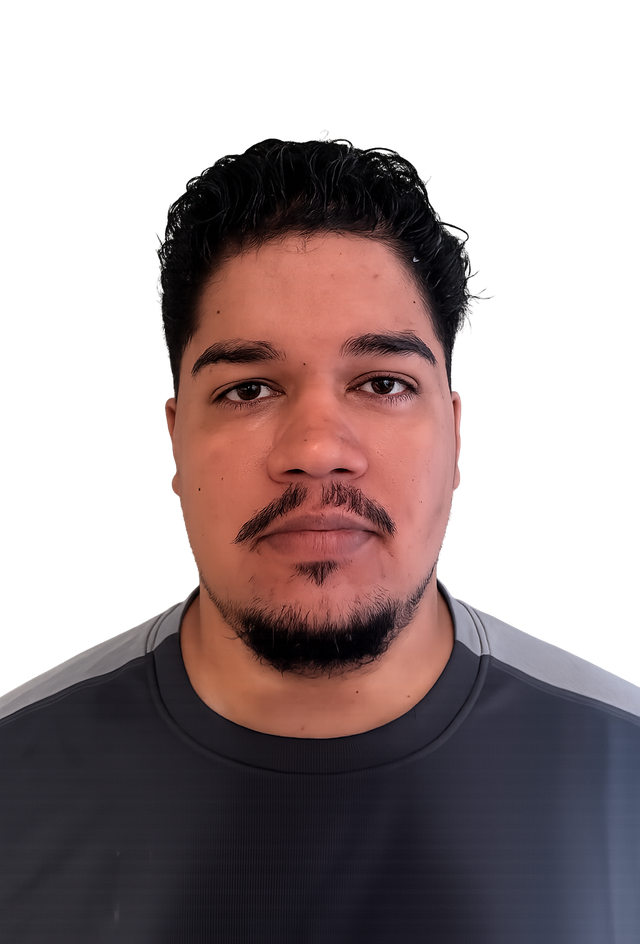
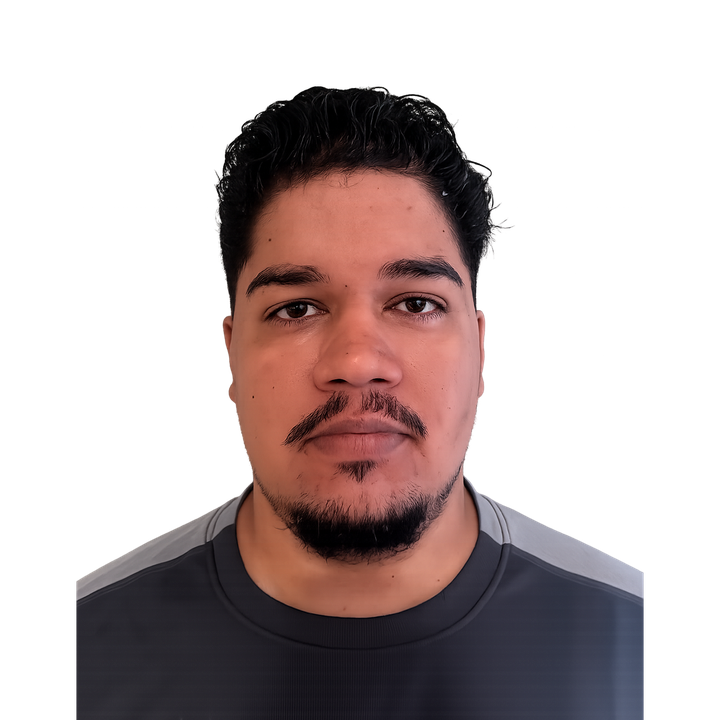
fix: foto circular e abertura que cabe na dobra em qualquer tela
Foto
- Volta ao padrao circular. O recorte retangular sangrando na base do bloco
  travava a altura do bloco na altura da imagem; o circulo escala com a tela e
  ainda entra por cima da tipografia, que era a graca do recorte.
- public/hugo-foto.png passa a ser QUADRADA (720x720), montada por script a
  partir do PNG sem fundo. Recortar no CSS nao servia: o getbbox() da alpha
  pegava um halo quase transparente de ~235px acima da cabeca, entao o `cover`
  ancorava errado e o rosto saia colado no topo do circulo. O script acha o
  topo real do sujeito (alpha > 60) e monta a tela com 12% de ar.

Abertura em uma tela
- Tudo que empurra altura vira min(Xvw, Yvh) dentro de um clamp, e a secao usa
  100dvh (nao vh: a barra de endereco do celular come ~60px e cortava a faixa).
  Medido em 13 viewports, de 1920x1080 a 360x740: todas cabem sem scroll.

Tres bugs que apareceram na medicao
- @keyframes ORFAO no CSS global: sobrou um `to { transform: rotate(360deg) }`
  e uma chave solta de um hl-spin removido. A chave matava o @media inteiro —
  por isso NENHUMA regra responsiva estava valendo, e a grade de tres colunas
  do hero continuava lado a lado no celular, com a coluna de texto quebrando
  uma palavra por linha.
- O nome vazava do bloco lima em toda largura de celular (43px de corte em
  320px, 58px em 360px): a medida em vw nao descontava a calha do rail nem os
  paddings. Coeficiente recalculado para a largura que sobra de verdade.
[…]

Changed region(s): [[0.0, 0.1222, 1.0, 1.0], [0.6562, 0.9472, 0.7188, 1.0], [0.625, 0.8556, 0.6562, 0.8861]]

diff --git a/src/components/Hero.tsx b/src/components/Hero.tsx
@@ -1,18 +1,34 @@
 import { C, F, R } from "../theme";
 
 /**
- * Abertura em bloco.
+ * Abertura em bloco — e em UMA tela.
  *
- * A referência é de cartaz: uma superfície inteira no acento, o nome ocupando a
- * largura toda em grotesca preta, e a foto entrando POR CIMA da tipografia. O
- * texto de apoio vive nas margens do bloco, em corpo pequeno — o contraste é
- * entre 8rem e 0,75rem, não entre duas fontes.
+ * A referência continua sendo de cartaz: superfície inteira no acento, o nome
+ * ocupando a largura toda em grotesca preta, texto de apoio nas margens em
+ * corpo pequeno. O contraste é entre 8rem e 0,75rem, não entre duas fontes.
  *
- * A faixa abaixo do bloco responde às DUAS perguntas que o visitante faz nos
- * primeiros segundos, uma em cada painel: "quem é essa pessoa?" (esquerda, a
- * credencial) e "o que tem aqui dentro?" (direita, o inventário do portfólio).
- * A versão anterior só respondia a segunda — e ainda assim contando
- * repositório, que é número de inventário do GitHub e não de experiência.
+ * Duas restrições novas governam o arquivo:
+ *
+ * 1. TUDO CABE EM 100dvh. A versão anterior media só em vw e rem: numa tela de
+ *    900px de altura o bloco lima sozinho passava de 750px e a faixa de baixo
+ *    caía fora da dobra, então a abertura pedia scroll para ser lida inteira.
+ *    Aqui cada medida que empurra altura — o nome, a foto, o "3" — é um
+ *    `min(Xvw, Yvh)` dentro de um clamp. Numa tela larga e baixa quem manda é
+ *    o vh; numa estreita e alta, o vw. `dvh` e não `vh` por causa do mobile: a
+ *    barra de endereço do Safari/Chrome come ~60px de `vh` e cortaria a faixa.
+ *
+ * 2. A FOTO É UM CÍRCULO. O recorte retangular sangrando na base do bloco era
+ *    bonito mas tinha um custo: a foto precisava terminar exatamente na borda
+ *    do cartaz, o que travava a altura do bloco na altura da imagem. O círculo
+ *    solta essa amarra — ele escala com a tela e ainda entra por cima da
+ *    tipografia, que era a graça do recorte anterior.
+ *
+ * A imagem em `public/hugo-foto.png` já é QUADRADA (720×720), montada por
+ * script a partir do PNG sem fundo: o retrato entra numa tela quadrada com 12%
+ * de ar acima do cabelo e margem lateral, e o que passa da base é cortado no
+ * peito. Recortar no CSS não resolvia — o `getbbox()` da alpha pegava um halo
+ * quase transparente de ~235px acima da cabeça, então o `cover` ancorava no
+ * lugar errado e o rosto saía colado no topo do círculo.
  */
 
 /** Setores atendidos. Escrito por extenso porque "6 setores" não diz nada; a
@@ -31,24 +47,24 @@ export function Hero() {
   return (
     <section id="hero" style={{
       background: C.bg,
-      // Sem minHeight de 100vh: o conteudo termina onde termina. Forcar a altura
-      // da janela abria um vao morto de ~300px abaixo da faixa de numeros, que
-      // lia como secao quebrada e nao como respiro.
-      padding: "5.5rem 1.5rem 3rem", position: "relative", overflow: "hidden",
+      minHeight: "100dvh",
+      boxSizing: "border-box",
+      display: "flex", flexDirection: "column", justifyContent: "center",
+      gap: "clamp(0.7rem, 1.6vh, 1.25rem)",
+      // O topo precisa livrar a nav fixa (1,5rem de padding + ~20px de linha).
+      padding: "clamp(4.5rem, 9vh, 6rem) 1.5rem clamp(1.25rem, 3vh, 2.5rem)",
+      position: "relative", overflow: "hidden",
     }}>
       {/* ── Bloco lima ───────────────────────────────────────────────── */}
       <div className="hl-fadein" style={{
         background: C.acid, borderRadius: R.hero,
         position: "relative", overflow: "hidden",
-        padding: "2.5rem 2.5rem 0",
-        maxWidth: 1240, margin: "0 auto",
+        padding: "clamp(1.4rem, 3vh, 2.5rem) clamp(1.4rem, 2.6vw, 2.5rem) 0",
+        maxWidth: 1240, width: "100%", margin: "0 auto",
       }}>
-        {/* Nome em corpo grande. clamp para nao estourar no celular: a
-            referencia vive de a palavra tocar as duas bordas, e isso so
-            funciona se o tamanho acompanhar a largura. */}
-        <h1 style={{
+        <h1 className="hl-hero-nome" style={{
           fontFamily: F.display,
-          fontSize: "clamp(2.6rem, 11.5vw, 9.5rem)",
+          fontSize: "clamp(2.2rem, min(11.5vw, 15.5vh), 9.5rem)",
           lineHeight: 0.86, letterSpacing: "-0.035em",
           color: C.onAcid, textTransform: "uppercase",
           position: "relative", zIndex: 2, pointerEvents: "none",
@@ -56,21 +72,28 @@ export function Hero() {
           Hugo<br />Leonardo
         </h1>
 
-        <div style={{
+        <div className="hl-hero-inner" style={{
           display: "grid", gridTemplateColumns: "minmax(0,1fr) auto minmax(0,1fr)",
-          alignItems: "end", gap: "1.5rem", marginTop: "-0.5rem",
+          alignItems: "end", gap: "1.5rem",
+          marginTop: "clamp(-1.5rem, -1.5vh, -0.5rem)",
         }}>
           {/* coluna esquerda */}
-          <div style={{ position: "relative", zIndex: 3, paddingBottom: "2.5rem" }}>
-            <p style={{
-              fontSize: "0.82rem", lineHeight: 1.55, color: C.onAcid,
-              maxWidth: "26ch", fontWeight: 500, opacity: 0.85,
+          <div className="hl-hero-left" style={{
+            position: "relative", zIndex: 3,
+            paddingBottom: "clamp(1.2rem, 3vh, 2.5rem)",
+          }}>
+            <p className="hl-hero-lead" style={{
+              fontSize: "clamp(0.72rem, 1.5vh, 0.82rem)", lineHeight: 1.55,
+              color: C.onAcid, maxWidth: "26ch", fontWeight: 500, opacity: 0.85,
             }}>
               Analista de Dados Pleno. Do SQL bruto ao painel na tela da
               diretoria, num provedor de fibra em operação.
             </p>
 
-            <div style={{ display: "flex", gap: "0.5rem", marginTop: "1.4rem" }}>
+            <div style={{
+              display: "flex", gap: "0.5rem",
+              marginTop: "clamp(0.7rem, 1.8vh, 1.4rem)",
+            }}>
               {[
                 { t: "in", href: "https://linkedin.com/in/hugo-leonardo-data-analyst" },
                 { t: "gh", href: "https://github.com/HugoLeonardoNz" },
@@ -83,36 +106,49 @@ export function Hero() {
                     display: "grid", placeItems: "center",
                     fontFamily: F.ui, fontSize: "0.66rem", fontWeight: 700,
                     textDecoration: "none", letterSpacing: "0.02em",
+                    flexShrink: 0,
                   }}
                 >{s.t}</a>
               ))}
             </div>
           </div>
 
-          {/* foto, sobre a tipografia */}
-          <div style={{
-            width: "clamp(190px, 28vw, 350px)", justifySelf: "center",
-            position: "relative", zIndex: 1, marginTop: "-16%",
+          {/* Foto: circulo escuro sobre o lima, entrando por cima do nome. */}
+          <div className="hl-hero-photo" style={{
+            width: "clamp(120px, min(24vw, 27vh), 300px)",
+            aspectRatio: "1 / 1",
+            justifySelf: "center", alignSelf: "end",
+            position: "relative", zIndex: 1,
+            marginTop: "clamp(-3.5rem, -6vh, -1.2rem)",
+            marginBottom: "clamp(1.2rem, 3vh, 2.5rem)",
+            borderRadius: "50%", overflow: "hidden",
+            background: C.bg,
+            boxShadow: "0 0 0 6px rgba(20,28,13,0.14)",
           }}>
             <img
               src={`${import.meta.env.BASE_URL}hugo-foto.png`}
               alt="Hugo Leonardo"
-              style={{ width: "100%", display: "block", objectFit: "contain" }}
+              style={{
+                width: "100%", height: "100%", display: "block",
+                objectFit: "cover", objectPosition: "center top",
+              }}
             />
           </div>
 
           {/* coluna direita */}
-          <div style={{
-            position: "relative", zIndex: 3, paddingBottom: "2.5rem",
+          <div className="hl-hero-right" style={{
+            position: "relative", zIndex: 3,
+            paddingBottom: "clamp(1.2rem, 3vh, 2.5rem)",
             justifySelf: "end", textAlign: "right",
           }}>
             <div style={{
               display: "inline-flex", alignItems: "center", gap: "0.45rem",
-              fontSize: "0.78rem", fontWeight: 600, color: C.onAcid, opacity: 0.85,
+              fontSize: "clamp(0.7rem, 1.4vh, 0.78rem)", fontWeight: 600,
+              color: C.onAcid, opacity: 0.85,
             }}>
               <span className="hl-pulse" style={{
                 width: 6, height: 6, borderRadius: "50%",
-                background: C.onAcid, display: "inline-block",
+                background: C.onAcid, display: "inline-block", flexShrink: 0,
               }} />
               Disponível para projetos
             </div>
@@ -121,7 +157,8 @@ export function Hero() {
                 onClick={() => document.getElementById("projetos")?.scrollIntoView({ behavior: "smooth" })}
                 aria-label="Ir para os projetos"
                 style={{
-                  marginTop: "1.4rem", width: 38, height: 38, borderRadius: "50%",
+                  marginTop: "clamp(0.7rem, 1.8vh, 1.4rem)",
+                  width: 38, height: 38, borderRadius: "50%",
                   background: C.onAcid, color: C.acid, border: "none",
                   cursor: "pointer", fontSize: "1rem", lineHeight: 1,
                 }}
@@ -132,43 +169,46 @@ export function Hero() {
       </div>
 
       {/* ── Credencial + inventário ──────────────────────────────────── */}
-      <div style={{
-        maxWidth: 1240, margin: "1.25rem auto 0",
-        display: "grid", gap: "1.25rem",
+      <div className="hl-hero-grid" style={{
+        maxWidth: 1240, width: "100%", margin: "0 auto",
+        display: "grid", gap: "clamp(0.7rem, 1.6vh, 1.25rem)",
         gridTemplateColumns: "minmax(0, 1.15fr) minmax(0, 1fr)",
         alignItems: "stretch",
-      }} className="hl-hero-grid">
+      }}>
 
         {/* Quem. O "3" carrega o painel inteiro: e o unico numero da abertura
             que nao e inventario. Os outros dizem quantas pecas existem; este
             diz ha quanto tempo a pessoa faz isso todo dia, que e a pergunta
             que um recrutador faz primeiro. */}
-        <div style={{
-          background: C.paper, borderRadius: R.panel, padding: "1.6rem 1.8rem",
-          display: "flex", alignItems: "center", gap: "1.8rem", flexWrap: "wrap",
+        <div className="hl-hero-cred" style={{
+          background: C.paper, borderRadius: R.panel,
+          padding: "clamp(1rem, 2.2vh, 1.6rem) clamp(1.2rem, 2vw, 1.8rem)",
+          display: "flex", alignItems: "center",
+          gap: "clamp(1rem, 2vw, 1.8rem)", flexWrap: "wrap",
         }}>
           <div style={{ display: "flex", alignItems: "baseline", gap: "0.5rem" }}>
-            <span style={{
-              fontFamily: F.display, fontSize: "clamp(3.4rem, 7vw, 5rem)",
+            <span className="hl-cred-num" style={{
+              fontFamily: F.display,
+              fontSize: "clamp(2.6rem, min(7vw, 7.5vh), 5rem)",
               color: C.acid, lineHeight: 0.82, letterSpacing: "-0.04em",
             }}>3</span>
             <span style={{
-              fontFamily: F.display, fontSize: "1.15rem", color: C.acid,
-              letterSpacing: "-0.02em",
+              fontFamily: F.display, fontSize: "clamp(0.95rem, 1.9vh, 1.15rem)",
+              color: C.acid, letterSpacing: "-0.02em",
             }}>anos</span>
           </div>
 
           <div style={{ minWidth: "18ch", flex: 1 }}>
-            <div style={{
-              fontSize: "0.9rem", color: C.ink, fontWeight: 600,
-              lineHeight: 1.45, marginBottom: "0.5rem",
+            <div className="hl-cred-frase" style={{
+              fontSize: "clamp(0.8rem, 1.7vh, 0.9rem)", color: C.ink, fontWeight: 600,
+              lineHeight: 1.45, marginBottom: "0.45rem",
             }}>
               construindo a inteligência de dados de um provedor de fibra —
               como único analista da operação
             </div>
-            <div style={{
-              fontFamily: F.ui, fontSize: "0.7rem", letterSpacing: "0.04em",
-              color: C.ink3, lineHeight: 1.5,
+            <div className="hl-hero-setores" style={{
+              fontFamily: F.ui, fontSize: "clamp(0.63rem, 1.3vh, 0.7rem)",
+              letterSpacing: "0.04em", color: C.ink3, lineHeight: 1.5,
             }}>
               {SETORES}
             </div>
@@ -176,22 +216,24 @@ export function Hero() {
         </div>
 
         {/* O que. */}
-        <div style={{
-          background: C.paper, borderRadius: R.panel, padding: "1.6rem 1.8rem",
+        <div className="hl-hero-inv" style={{
+          background: C.paper, borderRadius: R.panel,
+          padding: "clamp(1rem, 2.2vh, 1.6rem) clamp(1.2rem, 2vw, 1.8rem)",
           display: "flex", flexDirection: "column", justifyContent: "center",
         }}>
           <div style={{
-            fontFamily: F.ui, fontSize: "0.72rem", letterSpacing: "0.1em",
-            textTransform: "uppercase", color: C.ink3, marginBottom: "0.9rem",
+            fontFamily: F.ui, fontSize: "clamp(0.64rem, 1.3vh, 0.72rem)",
+            letterSpacing: "0.1em", textTransform: "uppercase", color: C.ink3,
+            marginBottom: "clamp(0.55rem, 1.4vh, 0.9rem)",
           }}>
             Este portfólio conta com
           </div>
-          <div style={{ display: "flex", flexWrap: "wrap", gap: "0.45rem" }}>
+          <div style={{ display: "flex", flexWrap: "wrap", gap: "0.4rem" }}>
             {INVENTARIO.map((t) => (
-              <span key={t} style={{
-                fontSize: "0.72rem", color: C.ink2, fontFamily: F.ui,
+              <span key={t} className="hl-chip" style={{
+                fontSize: "clamp(0.64rem, 1.3vh, 0.72rem)", color: C.ink2, fontFamily: F.ui,
                 border: "1px solid rgba(212,247,74,0.28)",
-                borderRadius: R.chip, padding: "0.3rem 0.75rem",
+                borderRadius: R.chip, padding: "0.28rem 0.7rem",
               }}>{t}</span>
             ))}
           </div>

diff --git a/src/components/GlobalStyles.tsx b/src/components/GlobalStyles.tsx
@@ -19,14 +19,62 @@ export function GlobalStyles() {
       /* Selecao no acento: detalhe pequeno, mas e o tipo de coisa que separa
          tema aplicado de tema colado por cima. */
       ::selection { background: #d4f74a; color: #141c0d; }
-        to   { transform: rotate(360deg); }
-      }
       /* O hero e' um cartaz: no celular a foto entre duas colunas de texto
          nao cabe. Vira uma coluna e o selo giratorio sai — ele e' assinatura,
          nao conteudo. */
       @media (max-width: 860px) {
         .hl-hero-grid  { grid-template-columns: minmax(0, 1fr) !important; }
         .hl-sobre-grid { grid-template-columns: minmax(0, 1fr) !important; gap: 3rem !important; }
+
+        /* A grade de DENTRO do bloco lima nao colapsava: as tres colunas
+           (texto | foto | status) continuavam lado a lado no celular e a
+           coluna de texto virava uma palavra por linha. Vira pilha, com a
+           foto subindo para o topo — ela e o que ancora a leitura. */
+        #hero {
+          padding-top: 3.25rem !important;
+          padding-bottom: 0.9rem !important;
+          gap: 0.5rem !important;
+        }
+        .hl-hero-inner {
+          grid-template-columns: minmax(0, 1fr) !important;
+          gap: 0.9rem !important;
+          margin-top: 0.25rem !important;
+        }
+        .hl-hero-photo {
+          order: -1;
+          width: clamp(120px, 34vw, 165px) !important;
+          /* -14vw cobria a palavra LEONARDO inteira. O suficiente para a foto
+             encostar na tipografia sem apaga-la. */
+          margin: -5vw auto 0.1rem !important;
+        }
+
+        /* O paragrafo do bloco lima e a linha de setores dizem, em outras
+           palavras, o que o painel "3 anos" logo abaixo ja diz. No desktop os
+           dois cabem e um reforca o outro; no celular a repeticao custa ~120px
+           e empurra o inventario para fora da dobra. Some o eco, fica o
+           original. */
+
+        /* O painel do inventario e o mais alto da dobra no celular: cinco
+           chips que quebram em quatro linhas. Corpo e respiro menores custam
+           legibilidade zero num rotulo de duas palavras e devolvem ~50px. */
+        .hl-hero-cred,
+        .hl-hero-inv     { padding: 0.85rem 1rem !important; }
+        .hl-chip         { font-size: 0.62rem !important; padding: 0.2rem 0.55rem !important; }
+        .hl-cred-num     { font-size: 2.4rem !important; }
+        .hl-cred-frase   { font-size: 0.82rem !important; line-height: 1.35 !important; }
+        /* O nome vazava do bloco lima em TODA largura de celular — a
+           medida em vw nao descontava a calha do rail nem os paddings, entao
+           "LEONARDO" era cortado pelo overflow do bloco. Aqui o coeficiente e
+           calculado para a largura que sobra de verdade. */
+        .hl-hero-nome { font-size: clamp(1.75rem, min(9.4vw, 15.5vh), 9.5rem) !important; }
+        .hl-hero-lead    { display: none !important; }
+        .hl-hero-setores { display: none !important; }
+        .hl-hero-left  { padding-bottom: 0 !important; }
+        .hl-hero-right {
+          justify-self: stretch !important; text-align: left !important;
+          display: flex; align-items: center; justify-content: space-between;
+          gap: 1rem;
+        }
       }
 
       @keyframes hl-pulse {
@@ -68,7 +116,23 @@ export function GlobalStyles() {
       /* O rail e a unica navegacao e fica sempre visivel: o conteudo abre
          espaco para ele nos dois tamanhos. */
       section, footer { scroll-margin-top: 1.5rem; }
-      section { padding-left: 6.5rem !important; }
+      /* 6.5rem (104px) de calha comia 27% da largura de um celular de 390px:
+         com o rail compacto ocupando ate x=70, sobravam 24px de folga paga
+         pelo conteudo. 5.25rem ainda livra o rail e devolve 20px ao texto. */
+      section { padding-left: 5.25rem !important; }
+      /* Celular estreito (Android de 360px e afins): o ultimo aperto para a
+         abertura caber na dobra sem scroll. Abaixo de ~360x600 nao ha layout
+         possivel com esse conteudo — la a abertura rola, e tudo bem. */
+      @media (max-width: 400px) {
+        .hl-hero-photo { width: clamp(104px, 30vw, 148px) !important; margin-top: -4vw !important; }
+        .hl-hero-inner { gap: 0.6rem !important; }
+        .hl-hero-cred,
+        .hl-hero-inv   { padding: 0.75rem 0.9rem !important; }
+      }
+      @media (max-width: 340px) {
+        .hl-hero-nome { font-size: 8.6vw !important; }
+      }
+
       @media (min-width: 1100px) {
         section { padding-left: 15.5rem !important; }
       }
